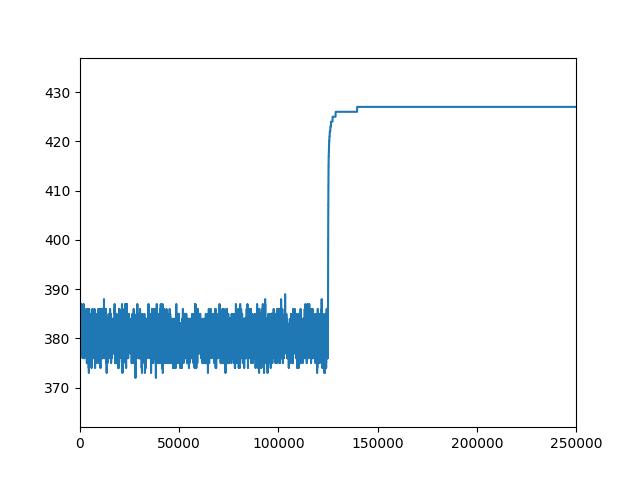
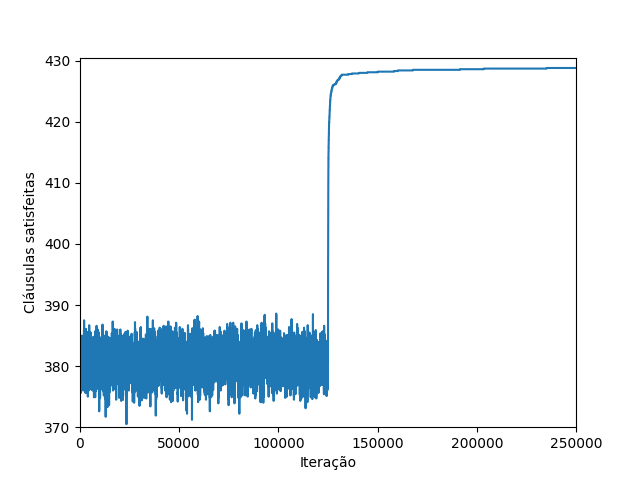
Geração de gráfico do Random-Search

diff --git a/SimulatedAnnealing/v4/Python/plot.py b/SimulatedAnnealing/v4/Python/plot.py
@@ -10,46 +10,48 @@ if (len(argv) < 2):
 	return 1
 '''
 tamanhos = ['20', '100', '250']
-topos    = [  91,   430,  1065]
+topos = {'20':91, '100':430, '250':1065}
 temp_inicial = '10.0'
 temp_final = '0.00001'
 # for tam in tamanhos:
-for tam, topo in tamanhos, topos:
+for tam in tamanhos:
 	for i in range(10):
 		xar = [0]*NUM_ITERACOES
 		yar = [0]*NUM_ITERACOES
 		path = "../Saidas_Media/sa_media_" + tam + "_" + str(i) + "_" + temp_inicial + "_" + temp_final + ".dat"
 		with open(path, 'r') as arq:
 			for line in arq.readlines():
-				x, y = map(int, line.split())
+				# x, y = map(int, line.split())
+				x, y = int(line.split()[0]), float(line.split()[1])
 				xar[x - 1] = x
 				yar[x - 1] = y
 
 		pl.plot(xar, yar)
 		# pl.ylim([min(yar) - 0.5, max(yar) + 0.5])
-		pl.ylim([min(yar) - 0.5, topo + 0.5])
+		pl.ylim([min(yar) - 0.5, topos[tam] + 0.5])
 		pl.xlim([1, NUM_ITERACOES])
 		pl.ylabel("Cláusulas satisfeitas")
 		pl.xlabel("Iteração")
-		pl.savefig('sa_' + tam + "_" + str(i) + ".png")	
+		pl.savefig('Imagens/sa_' + tam + "_" + str(i) + ".png")	
 		pl.clf()
 	
 
 	# Fazer gráfico do Random Search também ué °~°
 	xar = [0]*NUM_ITERACOES
 	yar = [0]*NUM_ITERACOES
-	path = "../Saidas/rs_" + tam + ".dat"
+	path = "../Saidas_Media/rs_media_" + tam + ".dat"
 	with open(path, 'r') as arq:
 		for line in arq.readlines():
-			x, y = map(int, line.split())
+			# x, y = map(float, line.split())
+			x, y = int(line.split()[0]), float(line.split()[1])
 			xar[x - 1] = x
 			yar[x - 1] = y
 
 		pl.plot(xar, yar)
 		# pl.ylim([min(yar) - 0.5, max(yar) + 0.5])
-		pl.ylim([min(yar) - 0.5, topo + 0.5])
+		pl.ylim([min(yar) - 0.5, topos[tam] + 0.5])
 		pl.xlim([1, NUM_ITERACOES])
 		pl.ylabel("Cláusulas satisfeitas")
 		pl.xlabel("Iteração")
-		pl.savefig('sa_' + tam + "_" + str(i) + ".png")	
+		pl.savefig('Imagens/rs_' + tam + ".png")	
 		pl.clf()

diff --git a/SimulatedAnnealing/v4/Python/media.py b/SimulatedAnnealing/v4/Python/media.py
@@ -14,9 +14,24 @@ for tam in tamanhos:
                 valor = int(line.split()[1])
                 vetor[idx] += valor
         for i in range(250000):
-            vetor[i] //= 10
+            vetor[i] /= 10
         path_saida = "../Saidas_Media/sa_media_" + tam + "_" + str(tipo_temperatura) + "_" + temp_inicial + '_' + temp_final + ".dat"
-        print("Fazendo a media do " + tam + "_" + str(tipo_temperatura))
-        with open(path_saida, 'a') as arq_saida:
+        print("Fazendo a media do SA com " + tam + "_" + str(tipo_temperatura))
+        with open(path_saida, 'w') as arq_saida:
             for i in range(250000):
                 arq_saida.write(str(i + 1) + " " + str(vetor[i]) + "\n")
+
+    vetor = [0 for _ in range(250000)]
+    for i in range(10):
+        path = '../Saidas/rs_' + tam + "_" + str(i) + '.dat'
+        arq = open(path)
+        for idx, line in enumerate(arq.readlines()):
+            valor = int(line.split()[1])
+            vetor[idx] += valor
+    for i in range(250000):
+        vetor[i] /= 10
+    path_saida = "../Saidas_Media/rs_media_" + tam + ".dat"
+    print("Fazendo a media do RS com " + tam)
+    with open(path_saida, 'w') as arq_saida:
+        for i in range(250000):
+            arq_saida.write(str(i + 1) + " " + str(vetor[i]) + "\n")

diff --git a/SimulatedAnnealing/v4/sa.cpp b/SimulatedAnnealing/v4/sa.cpp
@@ -49,25 +49,18 @@ double CS0 (int iteracao){
 double CS1 (int iteracao){
     return (TEMP_INICIAL * pow(TEMP_FINAL / TEMP_INICIAL, iteracao / NUM_ITERACOES));
 }
-
-// COM PROBLEMA:
 double CS2 (int iteracao){
     double A = (TEMP_INICIAL - TEMP_FINAL) * (NUM_ITERACOES + 1) / NUM_ITERACOES;
     double B = TEMP_INICIAL - A;
     return  ((A / (double)(iteracao + 1)) + B);
 }
-
-// COM PROBLEMA:
 double CS3 (int iteracao){
     double A = log(TEMP_INICIAL - TEMP_FINAL)/log(NUM_ITERACOES);
     return (TEMP_INICIAL - pow(iteracao, A));
 }
-
-// COM PROBLEMA:
 double CS4 (int iteracao){
     return ((TEMP_INICIAL - TEMP_FINAL) / (1.0 + exp(3 * (iteracao - NUM_ITERACOES / 2.0))) + TEMP_FINAL);
 }
-
 double CS5 (int iteracao){
     return (0.5 * (TEMP_INICIAL - TEMP_FINAL) * (1 + cos((iteracao * acos(-1)) / NUM_ITERACOES)) + TEMP_FINAL);
 }
